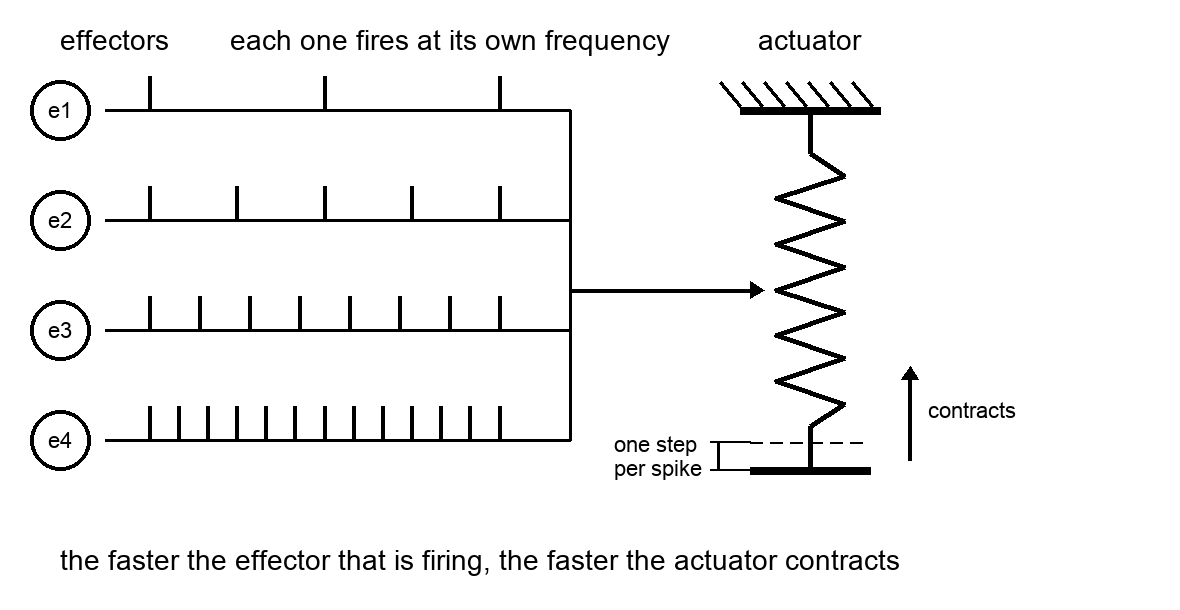
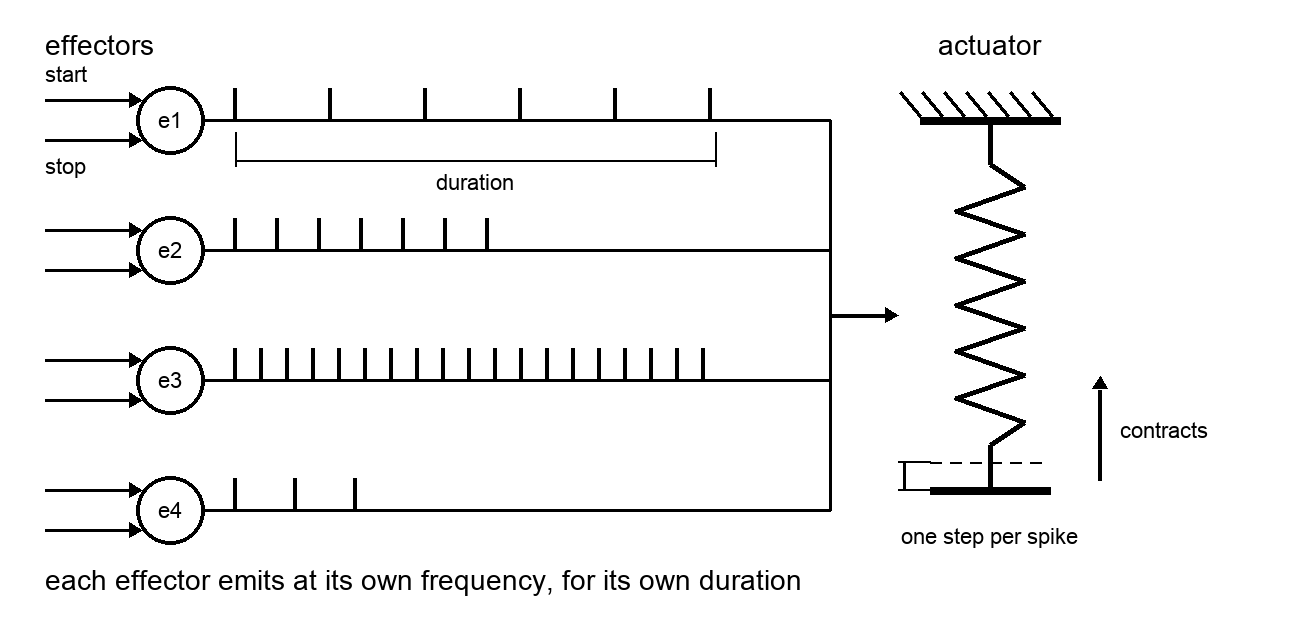
Follow the effector duration through the rest of spec 003
An effector now stops on its own when its duration runs out, so three
things written before that no longer held: the total contraction was tied
to the interval between start and stop, an acceptance criterion demanded a
stop spike to end the emission, and the parameter table listed frequency
but not duration.

Redraw the diagram to match: each effector shows its start and stop
inputs, and the four trains differ in frequency and in duration
independently, which is what makes several effectors on one actuator
worth having.

diff --git a/spec/003-neuromorphic-actuators.md b/spec/003-neuromorphic-actuators.md
@@ -16,11 +16,13 @@ An effector has two inputs, and a single spike on either one is enough: one tell
 
 So it's common to have many effectors attached to the same actuator (with different frequencies and duration) in order to fine tune the actuator movements.
 
-So the brain never has to sustain a movement. Two spikes are the whole command — one to start, one to stop — and everything else follows from them:
+So the brain never has to sustain a movement. One spike is usually the whole command: the effector runs its own course and stops by itself, and the `stop` input is there for cutting it short before that:
 
 ```
-total contraction = step × frequency of the effector × time between the two spikes
+total contraction = step × frequency of the effector × how long it emits
 ```
+
+where *how long it emits* is the effector's own duration, or the time up to the `stop` spike if one arrives first. Between the two, the brain picks how far the actuator travels by picking which effector to start.
 
 Each effector fires at its own frequency, so which effector is firing is what sets how fast the actuator moves: a slow effector contracts it slowly, a fast one contracts it quickly. The actuator itself has no notion of speed — the speed is just how often the spikes arrive.
 
@@ -38,7 +40,9 @@ This is the mirror image of the threshold based sensors of [spec 001](001-neurom
 |-----------|----------------------------------------------------------------|
 | Step      | How much the actuator contracts on a single spike               |
 | Range     | The span of contraction, from fully relaxed to fully contracted |
-| Effectors | How many are attached, and the frequency of each one            |
+| Effectors | How many are attached to the actuator                           |
+| Frequency | How often one effector emits, once started                      |
+| Duration  | How long it goes on emitting if nothing stops it                |
 
 ## Acceptance criteria
 
@@ -47,8 +51,10 @@ This is the mirror image of the threshold based sensors of [spec 001](001-neurom
 - [ ] The same effector firing for twice as long contracts it twice as much.
 - [ ] A faster effector contracts it faster, with no other change.
 - [ ] Nothing the actuator can do by itself moves it back.
-- [ ] An effector emits from the `start` spike until the `stop` spike, and not a
-      spike outside that interval.
+- [ ] An effector emits nothing until a `start` spike arrives.
+- [ ] Once started it emits at its frequency for its duration, with nothing else
+      arriving, and then stops on its own.
+- [ ] A `stop` spike ends the emission earlier, and nothing is emitted after it.
 
 ## Open questions
 
@@ -56,5 +62,5 @@ This is the mirror image of the threshold based sensors of [spec 001](001-neurom
 - If several effectors fire at once, do their rates add up, or is only one meant to be active at a time, the way only one threshold sensor is?
 - What happens at the end of the range, when it is already fully contracted — are the spikes simply ignored?
 - Is the step the same size at every level of contraction?
-- How many effectors does each actuator of Vehicle 1 have, and at what frequencies?
+- How many effectors does each actuator of Vehicle 1 have, and with what frequencies and durations?
 - What does an effector do with a second `start` while it is already emitting, or with a `stop` while it is not?
